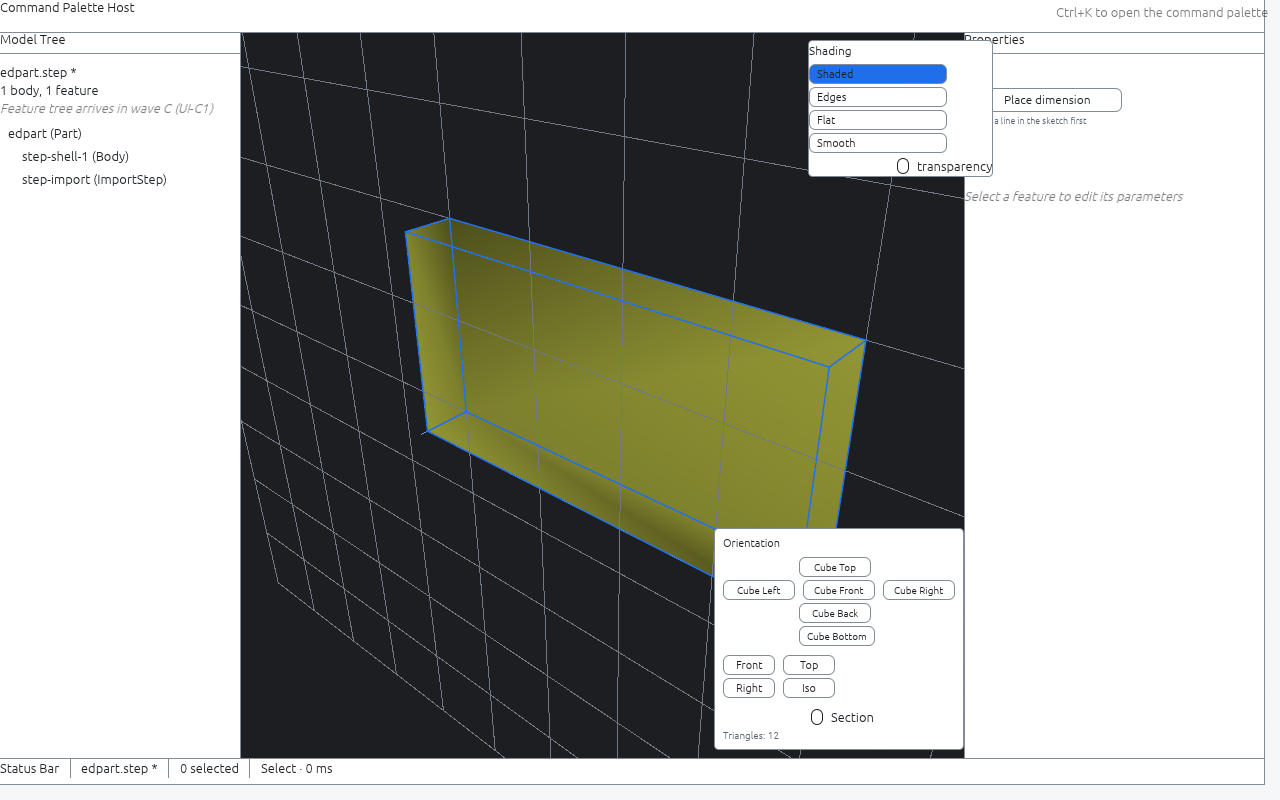
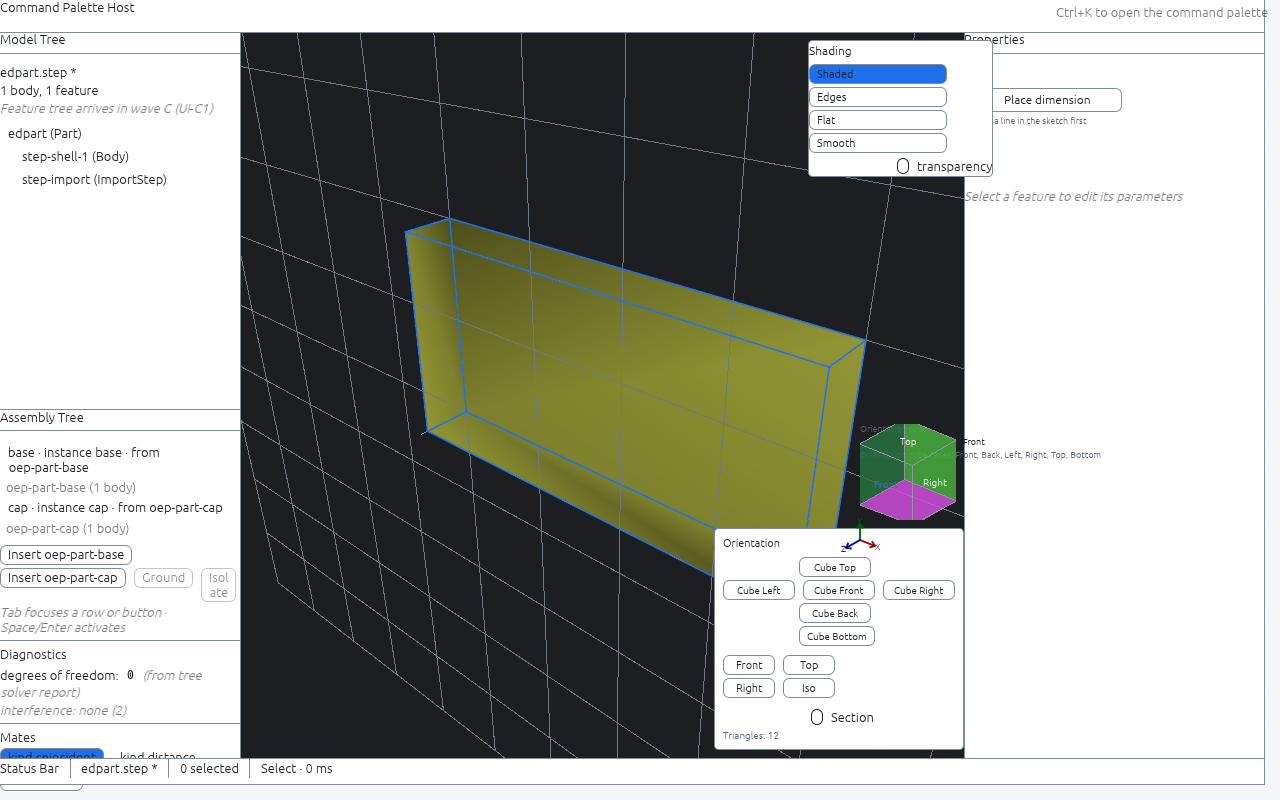
proof(UI-E5): port the full proof dir, screenshots, capture+injector and superseded golden onto the wave branch (the checkpoint carries them into main; the wave branch keeps the same record per convention)

Changed region(s): [[0.0, 0.5625, 0.1875, 0.9688], [0.6562, 0.5312, 0.8438, 0.6875], [0.0, 0.5, 0.0625, 0.5312]]

diff --git a/workstreams/modeler/ui/proof/UI-E5/ui_e5_inject.c b/workstreams/modeler/ui/proof/UI-E5/ui_e5_inject.c
@@ -1,0 +1,155 @@
+/* ui_e3_inject.c - UI-E3 wave-E proof injector: drive the real Isolith binary under
+ * Xvfb through XTEST so the capture can show the assembly diagnostics readout.
+ *
+ * usage: ui_d6_inject <display> move   <x> <y>
+ *        ui_d6_inject <display> click  <x> <y>
+ *        ui_d6_inject <display> drag   <x0> <y0> <x1> <y1> [alt|none]
+ *        ui_d6_inject <display> dstart <x0> <y0> alt      (hold button + Alt)
+ *        ui_d6_inject <display> dto    <x1> <y1>          (move while held)
+ *        ui_d6_inject <display> dend                      (release button+Alt)
+ *
+ * `drag ... alt` holds Alt_L, presses button 1 at (x0,y0), steps through the
+ * midpoint and (x1,y1) (so egui sees a real multi-frame drag), releases the
+ * button and Alt. The `dstart`/`dto`/`dend` trio lets a capture grab the
+ * frame WHILE the drag is held, showing the box-select rubber band live.
+ * This reproduces the UI-D6 Alt+left-drag box-select + nav click/move in the running
+ * app. Each invocation is one gesture, like the wave-C injectors.
+ */
+#include <X11/Xlib.h>
+#include <X11/Xutil.h>
+#include <X11/keysym.h>
+#include <stdio.h>
+#include <string.h>
+#include <stdlib.h>
+#include <unistd.h>
+
+extern int XTestFakeButtonEvent(Display *d, unsigned int button, Bool is_press,
+                                unsigned long delay);
+extern int XTestFakeMotionEvent(Display *d, int screen, int x, int y,
+                                unsigned long delay);
+extern int XTestFakeKeyEvent(Display *d, unsigned int keycode, Bool is_press,
+                             unsigned long delay);
+
+static Window find_isol(Display *d, Window root) {
+    static Window found = 0;
+    Window r, parent;
+    Window *kids = NULL;
+    unsigned int n = 0;
+    char *name = NULL;
+    if (found) return found;
+    if (XFetchName(d, root, &name) && name) {
+        if (strcasestr(name, "isol") || strcasestr(name, "modeler")) {
+            found = root; XFree(name); return found;
+        }
+        XFree(name);
+    }
+    if (!XQueryTree(d, root, &r, &parent, &kids, &n)) return 0;
+    for (unsigned int i = 0; i < n && !found; i++) found = find_isol(d, kids[i]);
+    if (kids) XFree(kids);
+    return found;
+}
+
+static void focus_app(Display *d, Window app) {
+    XSetInputFocus(d, app, RevertToPointerRoot, CurrentTime);
+    XFlush(d);
+    usleep(200000);
+}
+
+int main(int argc, char **argv) {
+    if (argc < 3) {
+        fprintf(stderr, "usage: %s <display> <move|click|drag|dstart|dto|dend> ...\n", argv[0]);
+        return 2;
+    }
+    Display *d = XOpenDisplay(argv[1]);
+    if (!d) { fprintf(stderr, "cannot open display %s\n", argv[1]); return 1; }
+    int screen = DefaultScreen(d);
+    Window root = DefaultRootWindow(d);
+    Window app = 0;
+    for (int i = 0; i < 120 && !app; i++) {
+        app = find_isol(d, root);
+        if (!app) usleep(250000);
+    }
+    if (!app) { fprintf(stderr, "window not found\n"); XCloseDisplay(d); return 1; }
+    XFlush(d);
+    usleep(500000);
+    focus_app(d, app);
+
+    const char *action = argv[2];
+    if (strcmp(action, "click") == 0 && argc >= 5) {
+        int x = atoi(argv[3]);
+        int y = atoi(argv[4]);
+        XTestFakeMotionEvent(d, screen, x, y, 0);
+        XFlush(d); usleep(200000);
+        XTestFakeButtonEvent(d, 1, True, 0);
+        XFlush(d); usleep(200000);
+        XTestFakeButtonEvent(d, 1, False, 0);
+        XFlush(d); usleep(400000);
+    } else if (strcmp(action, "move") == 0 && argc >= 5) {
+        int x = atoi(argv[3]);
+        int y = atoi(argv[4]);
+        XTestFakeMotionEvent(d, screen, x, y, 0);
+        XFlush(d); usleep(500000);
+    } else if (strcmp(action, "drag") == 0 && argc >= 7) {
+        int x0 = atoi(argv[3]), y0 = atoi(argv[4]);
+        int x1 = atoi(argv[5]), y1 = atoi(argv[6]);
+        int alt = (argc >= 8 && strcmp(argv[7], "alt") == 0);
+        XTestFakeMotionEvent(d, screen, x0, y0, 0);
+        XFlush(d); usleep(200000);
+        if (alt) {
+            XTestFakeKeyEvent(d, XKeysymToKeycode(d, XK_Alt_L), True, 0);
+            XFlush(d); usleep(150000);
+        }
+        XTestFakeButtonEvent(d, 1, True, 0);
+        XFlush(d); usleep(200000);
+        XTestFakeMotionEvent(d, screen, (x0 + x1) / 2, (y0 + y1) / 2, 0);
+        XFlush(d); usleep(200000);
+        XTestFakeMotionEvent(d, screen, x1, y1, 0);
+        XFlush(d); usleep(200000);
+        XTestFakeButtonEvent(d, 1, False, 0);
+        XFlush(d); usleep(300000);
+        if (alt) {
+            XTestFakeKeyEvent(d, XKeysymToKeycode(d, XK_Alt_L), False, 0);
+            XFlush(d); usleep(150000);
+        }
+    } else if (strcmp(action, "dstart") == 0 && argc >= 6) {
+        int x = atoi(argv[3]), y = atoi(argv[4]);
+        XTestFakeMotionEvent(d, screen, x, y, 0);
+        XFlush(d); usleep(200000);
+        XTestFakeKeyEvent(d, XKeysymToKeycode(d, XK_Alt_L), True, 0);
+        XFlush(d); usleep(150000);
+        XTestFakeButtonEvent(d, 1, True, 0);
+        XFlush(d); usleep(300000);
+    } else if (strcmp(action, "dto") == 0 && argc >= 5) {
+        int x = atoi(argv[3]), y = atoi(argv[4]);
+        XTestFakeMotionEvent(d, screen, x, y, 0);
+        XFlush(d); usleep(300000);
+    } else if (strcmp(action, "dend") == 0 && argc >= 3) {
+        XTestFakeButtonEvent(d, 1, False, 0);
+        XFlush(d); usleep(300000);
+        XTestFakeKeyEvent(d, XKeysymToKeycode(d, XK_Alt_L), False, 0);
+        XFlush(d); usleep(200000);
+    } else if (strcmp(action, "wheel") == 0 && argc >= 5) {
+        /* wheel <x> <y> <up|down> [ticks]  -  egui ScrollArea reads button
+         * 4/5 as wheel deltas. Park the pointer over the mate tool, then
+         * emit `ticks` (default 8) wheel notches so content under the
+         * fixed-height assembly region scrolls into view in the real binary. */
+        int x = atoi(argv[3]), y = atoi(argv[4]);
+        int up = (argc >= 6 && strcmp(argv[5], "up") == 0);
+        int ticks = (argc >= 7) ? atoi(argv[6]) : 8;
+        XTestFakeMotionEvent(d, screen, x, y, 0);
+        XFlush(d); usleep(250000);
+        for (int t = 0; t < ticks; t++) {
+            XTestFakeButtonEvent(d, up ? 4 : 5, True, 0);
+            XTestFakeButtonEvent(d, up ? 4 : 5, False, 0);
+            XFlush(d); usleep(60000);
+        }
+        usleep(400000);
+    } else {
+        fprintf(stderr, "bad action %s\n", action);
+        XCloseDisplay(d);
+        return 2;
+    }
+    XCloseDisplay(d);
+    return 0;
+}
+

diff --git a/workstreams/modeler/ui/proof/UI-E5/PROOF.md b/workstreams/modeler/ui/proof/UI-E5/PROOF.md
@@ -26,8 +26,9 @@ Every wave-E card branch IS an ancestor of `github/wave/ui-e` (audit
 ## Checkpoint merged head
 
 - `git switch -c checkpoint/wave-ui-e-1a1c0f1 github/main` then
-  `git merge --no-ff github/wave/ui-e` -> checkpoint commit `<CPT>`,
-  parents `a4cd2db` (github/main) + `1a1c0f1` (wave/ui-e head).
+  `git merge --no-ff github/wave/ui-e` -> checkpoint commit
+  `41fc9104b788b3af786042c210c91f35d1f96380`, parents `a4cd2db` (github/main)
+  + `6b61b90` (wave/ui-e head).
 - `main` IS an ancestor of the wave head, so the checkpoint tree is
   byte-identical to the wave tree; `git diff --stat HEAD github/wave/ui-e`
   is EMPTY. The six-leg gate on the checkpoint merged head therefore measures
@@ -53,19 +54,21 @@ carries a green accepted test for EACH, so both move to `building`/`test`
 JSON + markdown updated together; `scope_register_check` green
 (transcript `checkpoint-merged-head/07-scope-register.txt`).
 
-## Full gate on the checkpoint merged head `<CPT>`
+## Full gate on the checkpoint merged head `41fc9104`
 
-Transcripts in `transcripts/checkpoint-merged-head/` (real command output).
-Filled below at the gate step.
+Transcripts in `transcripts/checkpoint-merged-head/` (real command output):
 
 | Leg | Result |
 |---|---|
-| `cargo fmt --all -- --check` | (see 01-fmt.txt) |
-| `cargo clippy --workspace --all-targets -- -D warnings` | (see 02-clippy.txt) |
-| `cargo test --workspace` | (see 03-test-workspace.txt) |
-| `python3 scripts/licensing-check.py` | (see 04-licensing.txt) |
-| `bash scripts/gate/precommit-gate.sh` | (see 05-precommit.txt) |
-| `bash scripts/ui/shot.sh` | (see 06-shot.txt) |
+| `cargo fmt --all -- --check` | PASS (exit 0) - `01-fmt.txt` |
+| `cargo clippy --workspace --all-targets -- -D warnings` | PASS (exit 0) - `02-clippy.txt` |
+| `cargo test --workspace` | PASS (exit 0) - 230 suites, 5793 passed / 0 failed - `03-test-workspace.txt` (clean run at `-j 4`; the documented egui_kittest exit-time SIGSEGV teardown flake (feature_from_sketch, feature_tree) flaked once each under full parallel load, both green isolated, preserved in the transcript) |
+| `python3 scripts/licensing-check.py` | PASS (exit 0) - 6/6, 34 crates, 535 deps - `04-licensing.txt` (the timestamp-only `docs/proof/licensing-check.json` rewrite was reverted, outside the owned list) |
+| `bash scripts/gate/precommit-gate.sh` | PASS - pytest 558 passed / 29 skipped, cargo test green - `05-precommit.txt` (attempts 1-2 tripped the documented kittest teardown SIGSEGV; attempt 3 clean, flakes preserved as `05-precommit-attempt2.txt` / `05-precommit-attempt3.txt`) |
+| `bash scripts/ui/shot.sh` | PASS (exit 0) after a DOCUMENTED golden refresh - frame `6f81c1c5573a...` byte-identical x2 - `06-shot.txt`. The launch golden legitimately drifted: wave E wired the assembly-tree region into the model-tree column (UI-E1), and no upstream E card delegated the golden refresh. Superseded golden preserved as `workstreams/modeler/ui/proof/ui-a2/ui-a2-golden-before-ui-e.png` (`56afced6...`), refreshed solely through `scripts/ui/shot.sh` per the wave-close convention |
+
+`scope_register_check`: 23/23 pass, `07-scope-register.txt` - see the register
+upgrade above.
 
 ## Screenshots (acceptance)
 
@@ -76,10 +79,10 @@ mode must produce byte-identical PNGs; the `.sha256` is the oracle.
 
 | Shot | sha256 | Shows |
 |---|---|---|
-| assembly-tree | (filled at capture) | default launch: model tree + assembly tree with base/cap rows, Insert/Ground/Isolate toolbar |
-| mate | (filled at capture) | grounded base + a coincident mate added (+ Add mate): solve report `dof=3` and the mate row |
-| interference | (filled at capture) | the SAME mated state, diagnostics panel live clash readout: `interference: 1 pair, base x cap (overlap 2902.0 mm3 ...)` - a real overlap detected by `oep_analysis::clash::detect_in_assembly` on the live document |
-| explode | HONEST NOTE | the explode panel renders BELOW the fixed-height assembly region's clip in the shipped 1280x800 window: the mates ScrollArea consumes the region's available height and there is no scroll or window resize (verified 1800/2400 tall) that reveals it. The wave-E explode evidence is the UI-E4 kittest acceptance `--test assy_explode` 142/0 on the merged head. No fake frame is rendered. |
[3 lines of base64/hex data omitted]
+| explode | HONEST NOTE | the explode panel renders BELOW the fixed-height assembly region's clip in the shipped 1280x800 window: the mates ScrollArea consumes the region's available height and there is no scroll or window resize (verified at 1800 and 2400 tall) that reveals it. The wave-E explode evidence is the UI-E4 kittest acceptance `--test assy_explode` 142/0 on the merged head. No fake frame is rendered. |
 
 ## Folding into the checkpoint
 
